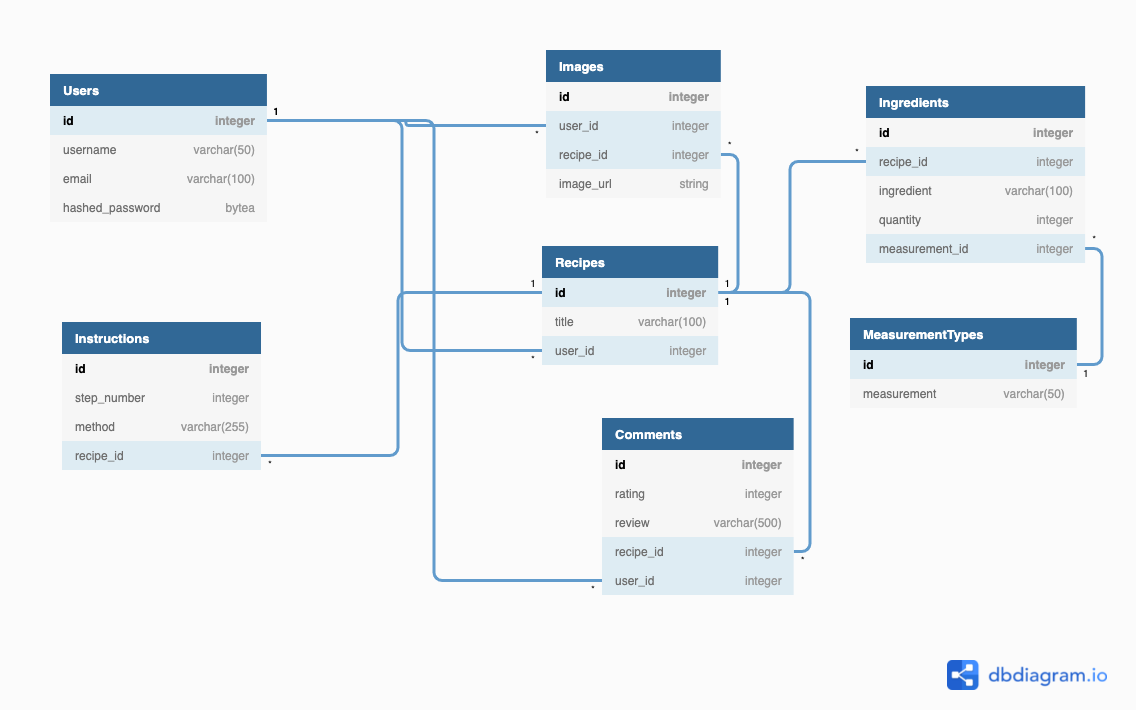
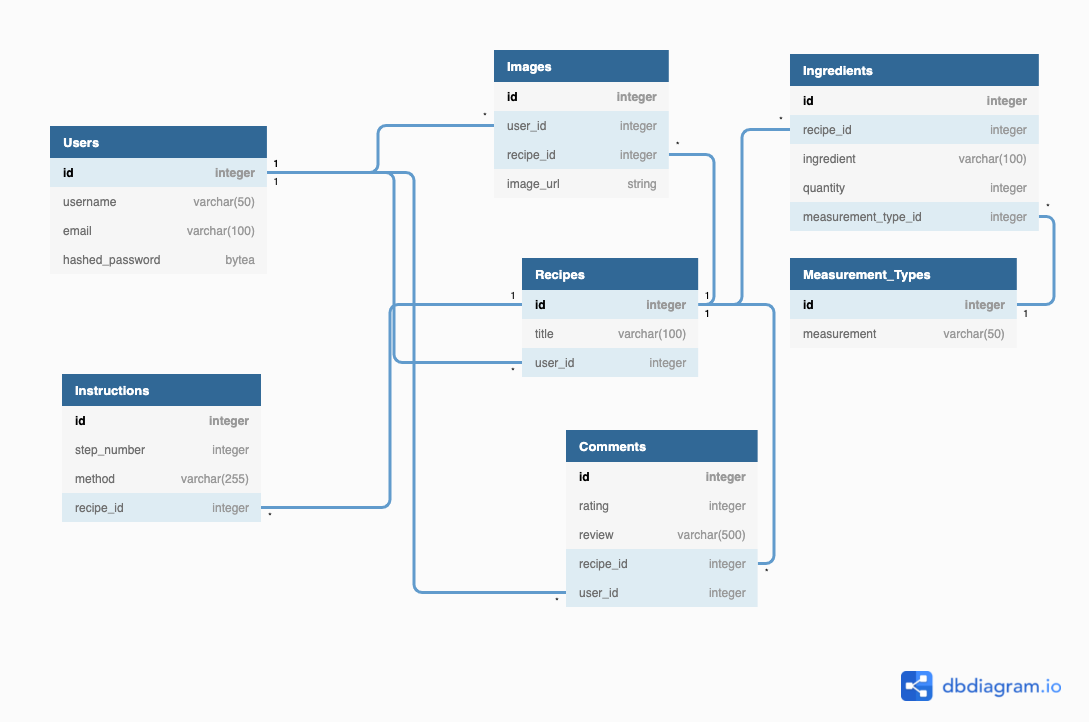
flask db model setup

Changed region(s): [[0.0312, 0.062, 0.9991, 0.8366], [0.8118, 0.9296, 0.9679, 0.9915]]

diff --git a/app/models/user.py b/app/models/user.py
@@ -2,32 +2,35 @@ from .db import db
 from werkzeug.security import generate_password_hash, check_password_hash
 from flask_login import UserMixin
 
+
 class User(db.Model, UserMixin):
-  __tablename__ = 'users'
+    __tablename__ = 'users'
 
-  id = db.Column(db.Integer, primary_key = True)
-  username = db.Column(db.String(40), nullable = False, unique = True)
-  email = db.Column(db.String(255), nullable = False, unique = True)
-  hashed_password = db.Column(db.String(255), nullable = False)
+    id = db.Column(db.Integer, primary_key=True)
+    username = db.Column(db.String(40), nullable=False, unique=True)
+    email = db.Column(db.String(255), nullable=False, unique=True)
+    hashed_password = db.Column(db.String(255), nullable=False)
 
+    recipes = db.relationship("Recipe", back_populates="user")
+    images = db.relationship("Image", back_populates="user")
+    comments = db.relationship("Comment", back_populates="user")
 
-  @property
-  def password(self):
-    return self.hashed_password
+    @property
+    def password(self):
+        return self.hashed_password
 
+    @password.setter
+    def password(self, password):
+        self.hashed_password = generate_password_hash(password)
 
-  @password.setter
-  def password(self, password):
-    self.hashed_password = generate_password_hash(password)
+    def check_password(self, password):
+        return check_password_hash(self.password, password)
 
-
-  def check_password(self, password):
-    return check_password_hash(self.password, password)
-
-
-  def to_dict(self):
-    return {
-      "id": self.id,
-      "username": self.username,
-      "email": self.email
-    }
+    def to_dict(self):
+        return {
+            "id": self.id,
+            "username": self.username,
+            "email": self.email
+            "recipes": self.recipes,
+            "comments": self.comments
+        }

diff --git a/app/models/ingredient.py b/app/models/ingredient.py
@@ -1,0 +1,26 @@
+from .db import db
+
+
+class Ingredient(db.Model):
+    __tablename__ = "ingredients"
+
+    id = db.Column(db.Integer, primary_key=True)
+    recipe_id = db.Column(db.Integer, nullable=False)
+    ingredient = db.Column(db.String, nullable=False)
+    quantity = db.Column(db.Integer, nullable=False)
+    measurement_type_id = db.Column(db.Integer, nullable=False,
+                                    db.ForeignKey("measurement_types.id"))
+
+    recipe = db.relationship("Recipe", back_populates="ingredients")
+    measurement_type = db.relationship("Measurement_Type")
+
+    def to_dict(self):
+        return {
+            "id": self.id,
+            "recipe_id": self.recipe_id,
+            "ingredient": self.ingredient,
+            "quantity": self.quantity,
+            "measurement_type_id": self.measurement_type_id,
+            "recipe": self.recipe,
+            "measurement_type": self.measurement_type
+        }

diff --git a/app/models/comment.py b/app/models/comment.py
@@ -1,0 +1,26 @@
+from .db import db
+
+
+class Comment(db.Model):
+    __tablename__ = "comments"
+
+    id = db.Column(db.Integer, primary_key=True)
+    rating = db.Column(db.Integer, nullable=False)
+    review = db.Column(db.String(500))
+    recipe_id = db.Column(db.Integer, db.ForeignKey(
+        "recipes.id"), nullable=False)
+    user_id = db.Column(db.Integer, db.ForeignKey("users.id"), nullable=False)
+
+    recipe = db.relationship("Recipe", back_populates="comments")
+    user = db.relationship("User", back_populates="comments")
+
+    def to_dict(self):
+        return{
+            "id": self.id,
+            "rating": self.rating,
+            "review": self.review,
+            "recipe_id": self.recipe_id,
+            "user_id": self.user_id,
+            "recipe": self.recipe,
+            "user": self.user
+        }

diff --git a/app/models/recipe.py b/app/models/recipe.py
@@ -1,0 +1,23 @@
+from .db import db
+
+
+class Recipe(db.Model):
+    __tablename__ = "recipes"
+
+    id = db.Column(db.Integer, primary_key=True)
+    title = db.Column(db.String, nullable=False)
+    user_id = db.Column(db.Integer, nullable=False, db.ForeignKey("users.id"))
+
+    user = db.relationship("User", back_populates="recipes")
+    images = db.relationship("Image", back_populates="recipe")
+    comments = db.relationship("Comment", back_populates="recipe")
+
+    def to_dict(self):
+        return{
+            "id": self.id,
+            "title": self.title,
+            "user": self.user,
+            "user_id": self.user_id
+            "images": self.images,
+            "comments": self.comments
+        }

diff --git a/app/models/image.py b/app/models/image.py
@@ -1,0 +1,23 @@
+from .db import db
+
+
+class Image(db.Model):
+    __tablename__ = 'images'
+
+    id = db.Column(db.Integer, primary_key=True)
+    user_id = db.Column(db.Integer, db.ForeignKey("users.id"))
+    recipe_id = db.Column(db.Integer, db.ForeignKey("recipes.id"))
+    image_url = db.Column(db.String(255))
+
+    user = db.relationship("User", back_populates="images")
+    recipe = db.relationship("Recipe", back_populates="images")
+
+    def to_dict(self):
+        return {
+            "id": self.id,
+            "user_id": self.user_id,
+            "recipe_id": self.recipe_id,
+            "image_url": self.image_url,
+            "user": self.user,
+            "recipe": self.recipe
+        }

diff --git a/app/models/instruction.py b/app/models/instruction.py
@@ -1,0 +1,22 @@
+from .db import db
+
+
+class Instruction(db.Model):
+    __tablename__ = "instructions"
+
+    id = db.Column(db.Integer, primary_key=True)
+    step_number = db.Column(db.Integer, nullable=False)
+    method = db.Column(db.String, nullable=False)
+    recipe_id = db.Column(db.Integer, nullable=False,
+                          db.ForeignKey("recipes.id"))
+
+    recipe = db.relationship("Instruction", back_populates="instructions")
+
+    def to_dict(self):
+        return {
+            "id": self.id,
+            "step_number": self.step_number,
+            "method": self.method,
+            "recipe_id": self.recipe_id,
+            "recipe": self.recipe
+        }

diff --git a/app/models/measurement_type.py b/app/models/measurement_type.py
@@ -1,0 +1,13 @@
+from .db import db
+
+
+class Measurement_Type(db.Model):
+    __tablename__ = "measurement_types"
+    id = db.Column(db.Integer, primary_key=True)
+    measurement_type = db.Column(db.String(50), nullable=False)
+
+    def to_dict(self):
+        return {
+            "id": self.id,
+            "measurement_type": self.measurement_type
+        }
